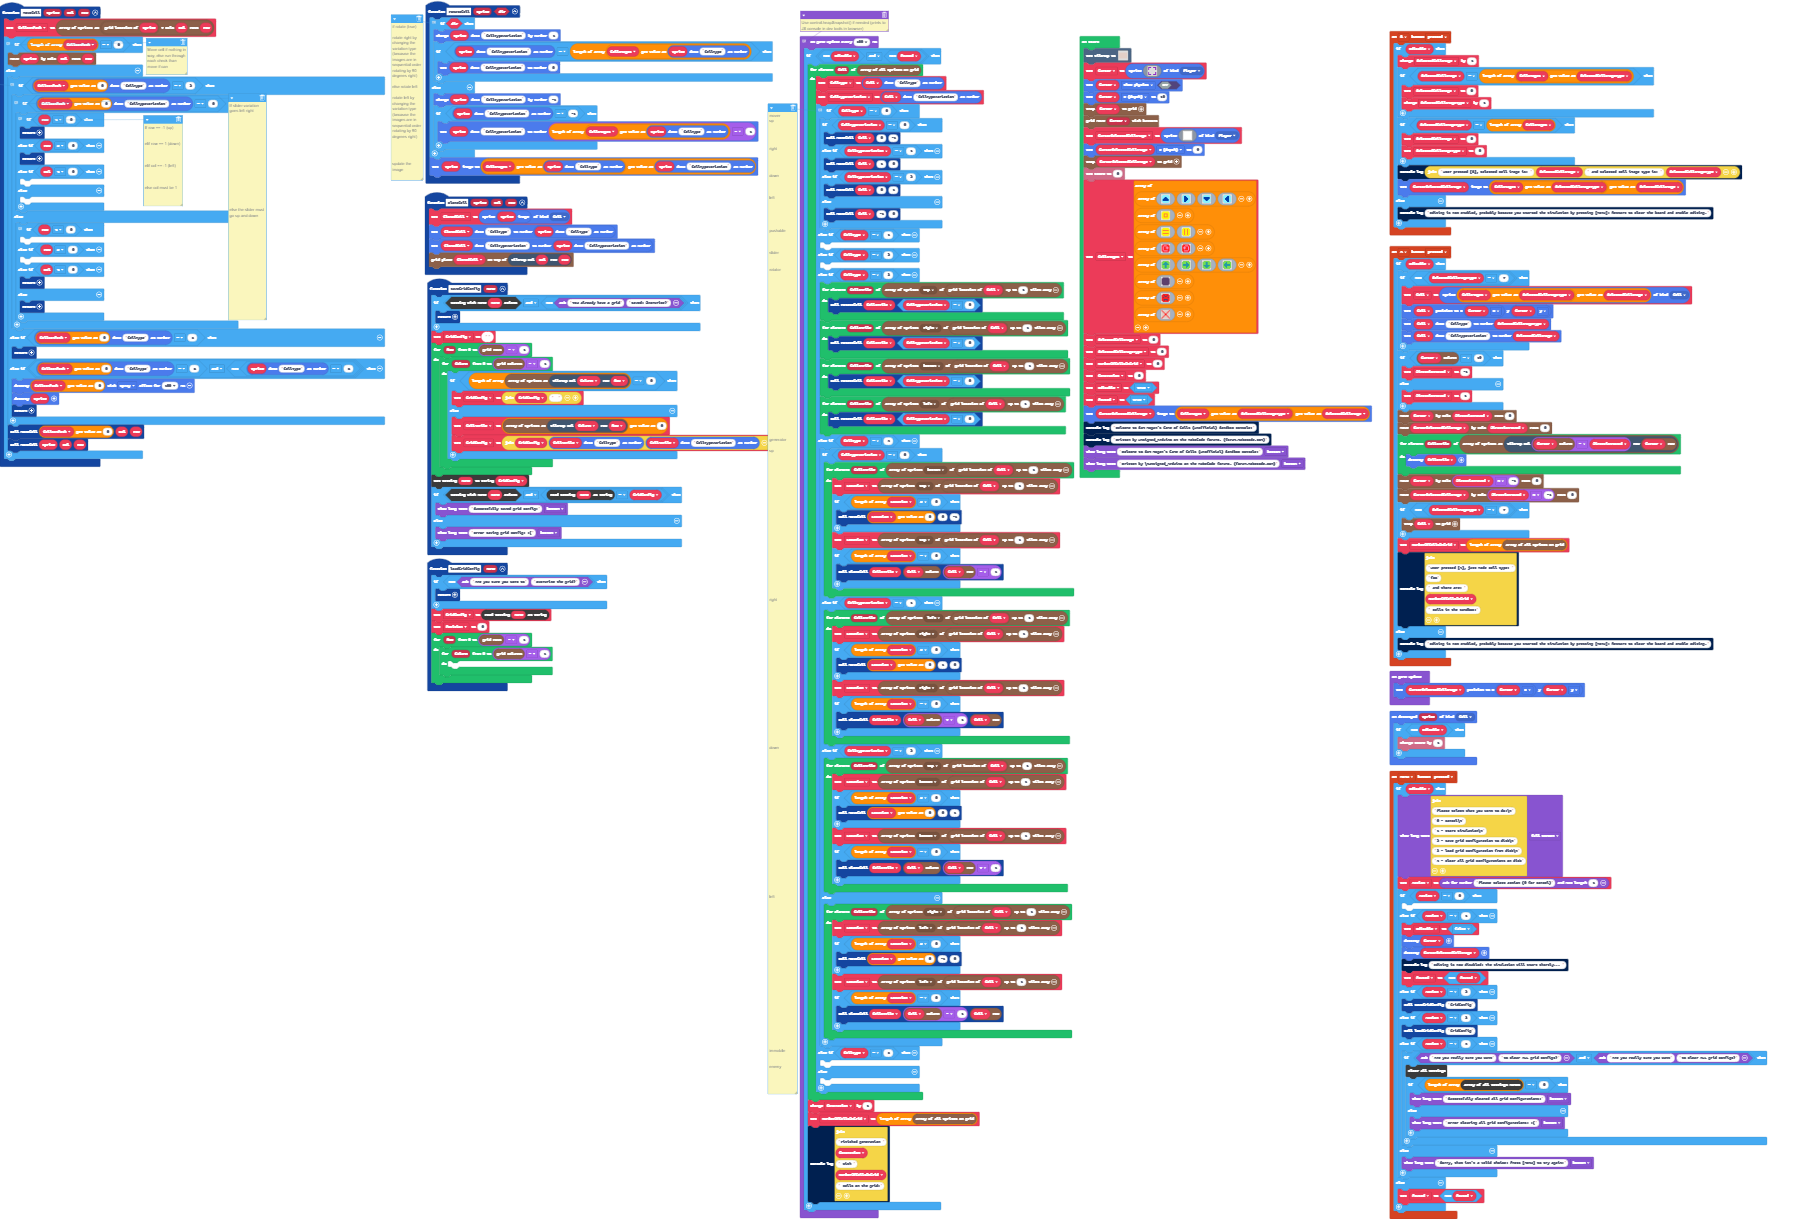
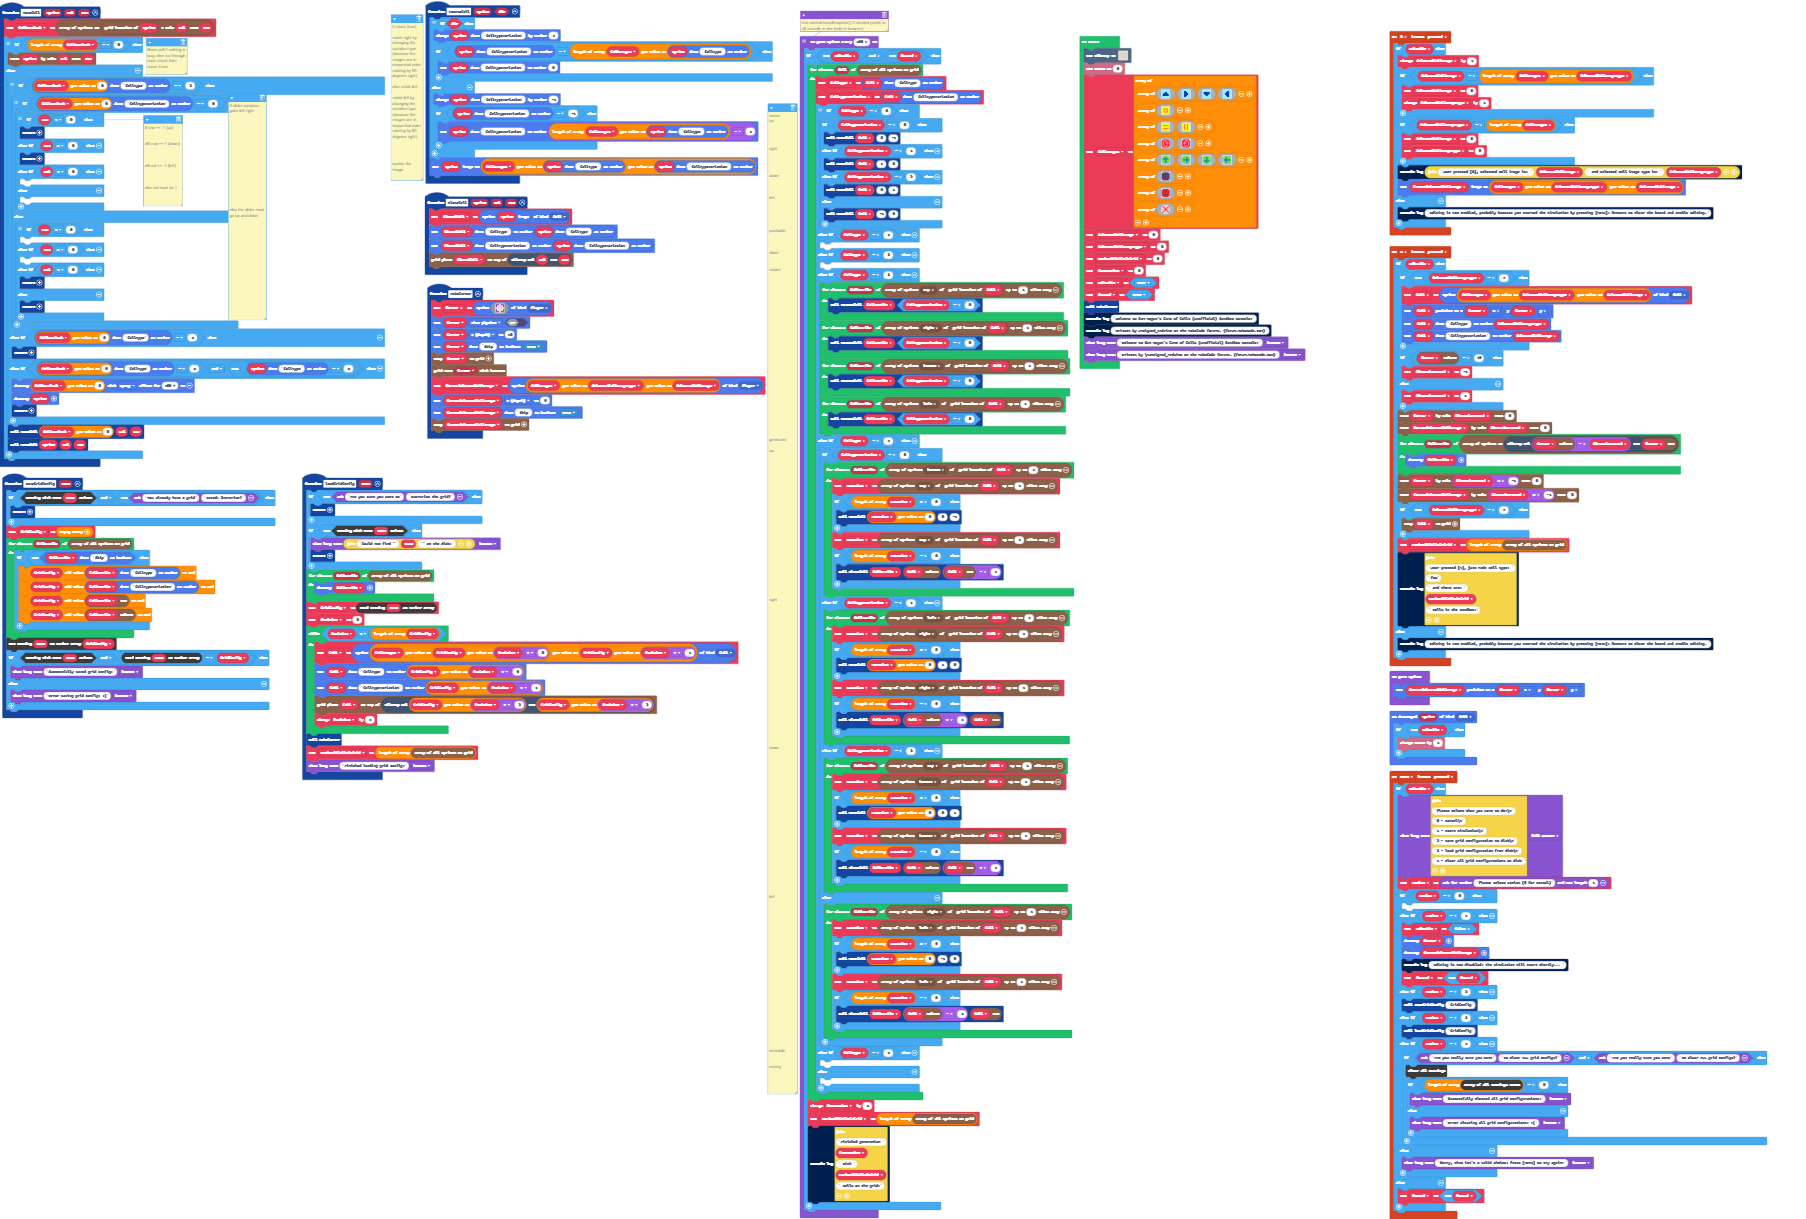
Loading and saving grid configuration actually works

Changed region(s): [[0.0, 0.2182, 0.4341, 0.6546], [0.5891, 0.0312, 0.7752, 0.4053]]

diff --git a/main.ts b/main.ts
@@ -199,6 +199,27 @@ function cloneCell (sprite: Sprite, col: number, row: number) {
     sprites.setDataNumber(ClonedCell, "CellTypeVariation", sprites.readDataNumber(sprite, "CellTypeVariation"))
     grid.place(ClonedCell, tiles.getTileLocation(col, row))
 }
+function makeCursor () {
+    Cursor = sprites.create(img`
+        a a a . . a a a 
+        a . . . . . . a 
+        a . . . . . . a 
+        . . . . . . . . 
+        . . . . . . . . 
+        a . . . . . . a 
+        a . . . . . . a 
+        a a a . . a a a 
+        `, SpriteKind.Player)
+    Cursor.setFlag(SpriteFlag.ShowPhysics, false)
+    Cursor.z = 10
+    sprites.setDataBoolean(Cursor, "Skip", true)
+    grid.snap(Cursor)
+    grid.moveWithButtons(Cursor)
+    CursorSelectedCellImage = sprites.create(CellImages[SelectedCellImageType][SelectedCellImage], SpriteKind.Player)
+    CursorSelectedCellImage.z = 9
+    sprites.setDataBoolean(CursorSelectedCellImage, "Skip", true)
+    grid.snap(CursorSelectedCellImage)
+}
 controller.menu.onEvent(ControllerButtonEvent.Pressed, function () {
     if (Editable) {
         game.showLongText("Please select what you want to do:\\n" + "0 - cancel\\n" + "1 - start simulation\\n" + "2 - save grid configuration to disk\\n" + "3 - load grid configuration from disk\\n" + "4 - clear all grid configurations on disk", DialogLayout.Full)
@@ -235,19 +256,17 @@ function saveGridConfig (name: string) {
     if (blockSettings.exists(name) && !(game.ask("You already have a grid", "saved! Overwrite?"))) {
         return
     }
-    GridConfig = ""
-    for (let Row = 0; Row <= grid.numRows() - 1; Row++) {
-        for (let Column = 0; Column <= grid.numColumns() - 1; Column++) {
-            if (grid.getSprites(tiles.getTileLocation(Column, Row)).length == 0) {
-                GridConfig = "" + GridConfig + "  "
-            } else {
-                CellAtTile = grid.getSprites(tiles.getTileLocation(Column, Row))[0]
-                GridConfig = "" + GridConfig + sprites.readDataNumber(CellAtTile, "CellType") + sprites.readDataNumber(CellAtTile, "CellTypeVariation")
-            }
+    GridConfig = []
+    for (let CellInTile of grid.allSprites()) {
+        if (!(sprites.readDataBoolean(CellInTile, "Skip"))) {
+            GridConfig.push(sprites.readDataNumber(CellInTile, "CellType"))
+            GridConfig.push(sprites.readDataNumber(CellInTile, "CellTypeVariation"))
+            GridConfig.push(grid.spriteRow(CellInTile))
+            GridConfig.push(grid.spriteCol(CellInTile))
         }
     }
-    blockSettings.writeString(name, GridConfig)
-    if (blockSettings.exists(name) && blockSettings.readString(name) == GridConfig) {
+    blockSettings.writeNumberArray(name, GridConfig)
+    if (blockSettings.exists(name) && blockSettings.readNumberArray(name) == GridConfig) {
         game.showLongText("Successfully saved grid config!", DialogLayout.Bottom)
     } else {
         game.showLongText("Error saving grid config! :(", DialogLayout.Bottom)
@@ -257,13 +276,25 @@ function loadGridConfig (name: string) {
     if (!(game.ask("Are you sure you want to", "overwrite the grid?"))) {
         return
     }
-    GridConfig = blockSettings.readString(name)
-    Position = 0
-    for (let Row = 0; Row <= grid.numRows() - 1; Row++) {
-        for (let Column = 0; Column <= grid.numColumns() - 1; Column++) {
-        	
-        }
+    if (!(blockSettings.exists(name))) {
+        game.showLongText("Could not find '" + name + "' on the disk!", DialogLayout.Bottom)
+        return
     }
+    for (let CellInTile of grid.allSprites()) {
+        CellInTile.destroy()
+    }
+    GridConfig = blockSettings.readNumberArray(name)
+    Position = 0
+    while (Position < GridConfig.length) {
+        Cell = sprites.create(CellImages[GridConfig[Position + 0]][GridConfig[Position + 1]], SpriteKind.Cell)
+        sprites.setDataNumber(Cell, "CellType", GridConfig[Position + 0])
+        sprites.setDataNumber(Cell, "CellTypeVariation", GridConfig[Position + 1])
+        grid.place(Cell, tiles.getTileLocation(GridConfig[Position + 3], GridConfig[Position + 2]))
+        Position += 4
+    }
+    makeCursor()
+    NumberOfCellsOnGrid = grid.allSprites().length
+    game.showLongText("Finished loading grid config!", DialogLayout.Bottom)
 }
 function rotateCell (sprite: Sprite, dir: boolean) {
     // if rotate (true)
@@ -295,21 +326,20 @@ let Location: Sprite[] = []
 let CellTypeVariation = 0
 let CellType = 0
 let Position = 0
-let CellAtTile: Sprite = null
-let GridConfig = ""
+let GridConfig: number[] = []
 let Action = 0
 let ClonedCell: Sprite = null
 let CellsInPath: Sprite[] = []
 let DirectionMoved = 0
+let Cursor: Sprite = null
 let Cell: Sprite = null
+let CursorSelectedCellImage: Sprite = null
 let Paused = false
 let Editable = false
 let NumberOfCellsOnGrid = 0
 let SelectedCellImageType = 0
 let SelectedCellImage = 0
 let CellImages: Image[][] = []
-let CursorSelectedCellImage: Sprite = null
-let Cursor: Sprite = null
[1 lines of base64/hex data omitted]
     . . . . . . . . . . . . . . . . . . . . 
     . . . . . . . . . . . . . . . . . . . . 
@@ -327,32 +357,6 @@ tiles.setTilemap(tiles.createTilemap(hex`14000f000101010101010101010101010101010
     . . . . . . . . . . . . . . . . . . . . 
     . . . . . . . . . . . . . . . . . . . . 
     `, [myTiles.transparency16,myTiles.tile2], TileScale.Eight))
-Cursor = sprites.create(img`
-    a a a . . a a a 
-    a . . . . . . a 
-    a . . . . . . a 
-    . . . . . . . . 
-    . . . . . . . . 
-    a . . . . . . a 
-    a . . . . . . a 
-    a a a . . a a a 
-    `, SpriteKind.Player)
-Cursor.setFlag(SpriteFlag.ShowPhysics, false)
-Cursor.z = 10
-grid.snap(Cursor)
-grid.moveWithButtons(Cursor)
-CursorSelectedCellImage = sprites.create(img`
-    1 1 1 1 1 1 1 1 
-    1 1 1 1 1 1 1 1 
-    1 1 1 1 1 1 1 1 
-    1 1 1 1 1 1 1 1 
-    1 1 1 1 1 1 1 1 
-    1 1 1 1 1 1 1 1 
-    1 1 1 1 1 1 1 1 
-    1 1 1 1 1 1 1 1 
-    `, SpriteKind.Player)
-CursorSelectedCellImage.z = 9
-grid.snap(CursorSelectedCellImage)
 info.setScore(0)
 CellImages = [
 [img`
@@ -514,7 +518,7 @@ NumberOfCellsOnGrid = 0
 let Generation = 0
 Editable = true
 Paused = true
-CursorSelectedCellImage.setImage(CellImages[SelectedCellImageType][SelectedCellImage])
+makeCursor()
 console.log("Welcome to Sam Hogan's Game of Cells (Unofficial) Sandbox console!")
 console.log("Written by Unsigned_Arduino on the MakeCode forums. (forum.makecode.com)")
 game.showLongText("Welcome to Sam Hogan's Game of Cells (Unofficial) Sandbox console!", DialogLayout.Bottom)
